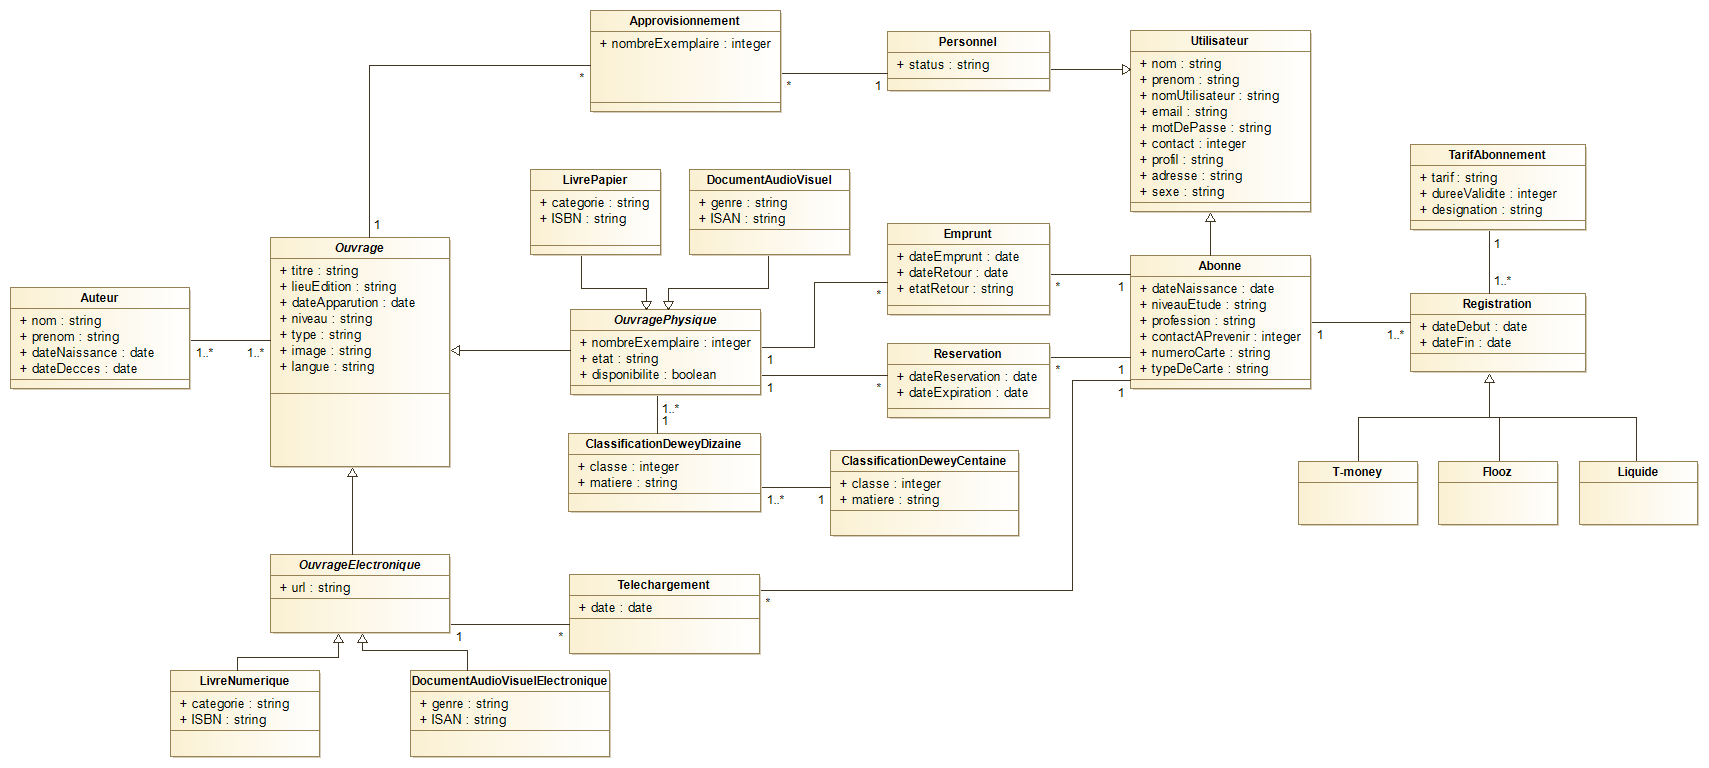
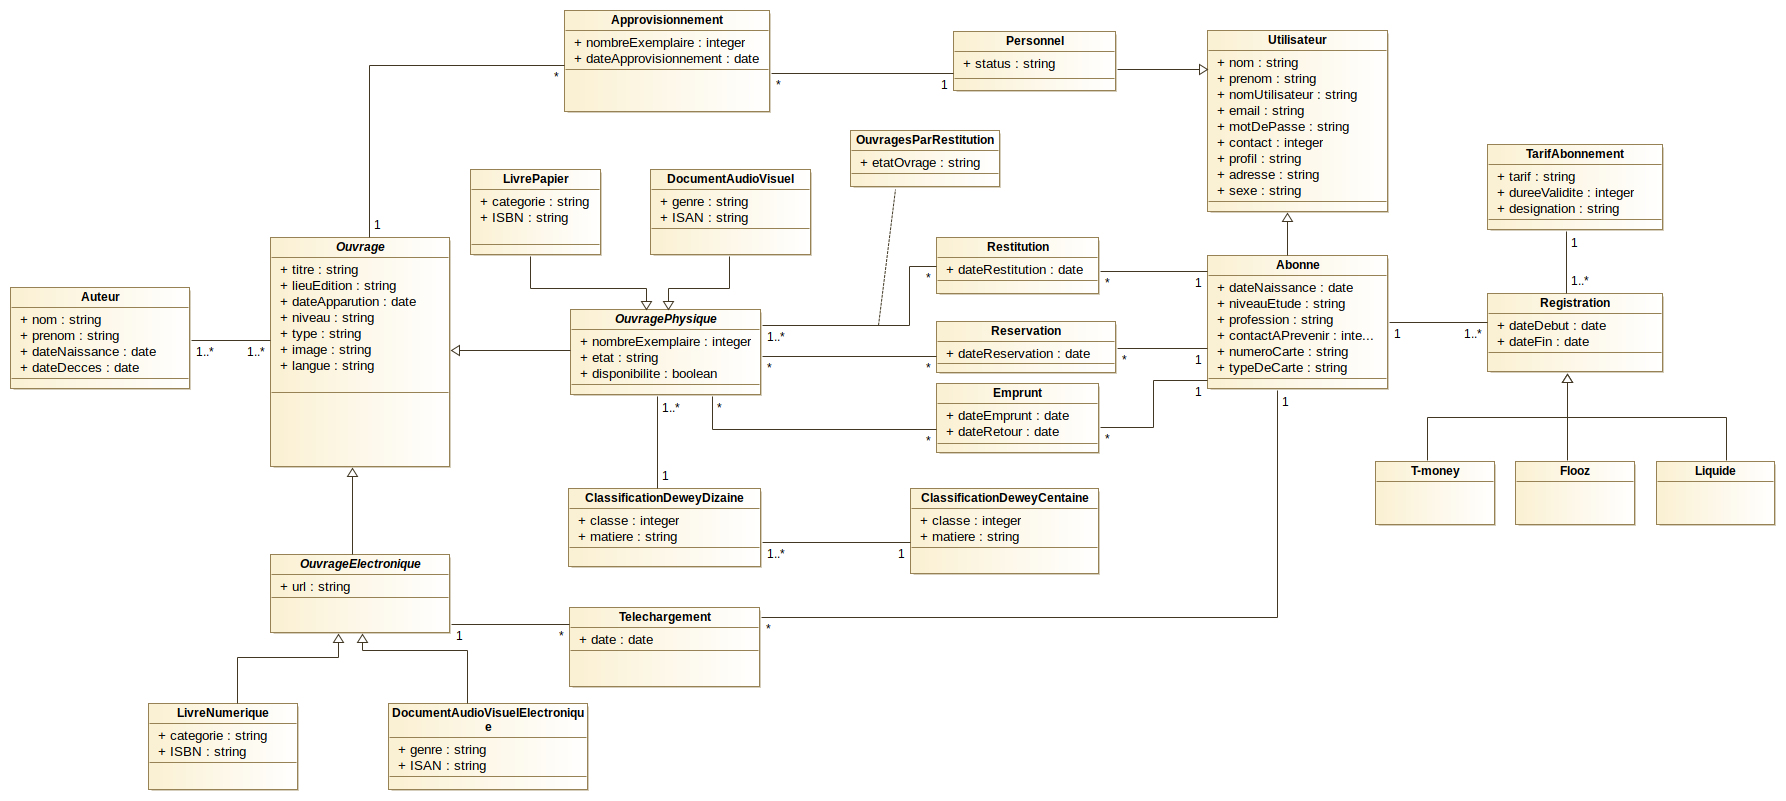
Models

diff --git a/source/mediatheque/routes/web.php b/source/mediatheque/routes/web.php
@@ -31,7 +31,7 @@ Route::get('formulaire_edition_des_abonnes', 'App\Http\Controllers\AbonneControl
 Route::put('mise_a_jour_des_abonnes', 'App\Http\Controllers\AbonneController@update')->name('updateAbonne');
 Route::delete('suppression_des_abonnes', 'App\Http\Controllers\AbonneController@destroy')->name('destroyAbonne');
 Route::get('formulaire_Abonne', 'App\Http\Controllers\AbonneController@create')->name('createAbonne');
-Route::post('enregistrement_des_abonnes', 'App\Http\Controllers\AbonneController@store')->name('storeAbonne');
+Route::post('enregistrement_abonne', 'App\Http\Controllers\AbonneController@store')->name('storeAbonne');
 
 // Path: Personnel routes/web.php
 Route::get('liste_des_personnels', 'App\Http\Controllers\PersonnelController@index')->name('listePersonnels');
@@ -40,7 +40,7 @@ Route::get('formulaire_edition_des_personnels', 'App\Http\Controllers\PersonnelC
 Route::put('mise_a_jour_des_personnels', 'App\Http\Controllers\PersonnelController@update')->name('updatePersonnel');
 Route::delete('suppression_des_personnels', 'App\Http\Controllers\PersonnelController@destroy')->name('destroyPersonnel');
 Route::get('formulaire_Personnel', 'App\Http\Controllers\PersonnelController@create')->name('createPersonnel');
-Route::post('enregistrement_des_personnels', 'App\Http\Controllers\PersonnelController@store')->name('storePersonnel');
+Route::post('enregistrement_personnel', 'App\Http\Controllers\PersonnelController@store')->name('storePersonnel');
 
 // Path: Emprunt routes/web.php
 Route::get('liste_des_emprunts', 'App\Http\Controllers\EmpruntController@index')->name('listeEmprunts');
@@ -49,7 +49,7 @@ Route::get('formulaire_edition_des_emprunts', 'App\Http\Controllers\EmpruntContr
 Route::put('mise_a_jour_des_emprunts', 'App\Http\Controllers\EmpruntController@update')->name('updateEmprunt');
 Route::delete('suppression_des_emprunts', 'App\Http\Controllers\EmpruntController@destroy')->name('destroyEmprunt');
 Route::get('formulaire_Emprunt', 'App\Http\Controllers\EmpruntController@create')->name('createEmprunt');
-Route::post('enregistrement_des_emprunts', 'App\Http\Controllers\EmpruntController@store')->name('storeEmprunt');
+Route::post('enregistrement_emprunt', 'App\Http\Controllers\EmpruntController@store')->name('storeEmprunt');
 
 // Path: Reservation routes/web.php
 Route::get('liste_des_reservations', 'App\Http\Controllers\ReservationController@index')->name('listeReservations');
@@ -58,7 +58,7 @@ Route::get('formulaire_edition_des_reservations', 'App\Http\Controllers\Reservat
 Route::put('mise_a_jour_des_reservations', 'App\Http\Controllers\ReservationController@update')->name('updateReservation');
 Route::delete('suppression_des_reservations', 'App\Http\Controllers\ReservationController@destroy')->name('destroyReservation');
 Route::get('formulaire_Reservation', 'App\Http\Controllers\ReservationController@create')->name('createReservation');
-Route::post('enregistrement_des_reservations', 'App\Http\Controllers\ReservationController@store')->name('storeReservation');
+Route::post('enregistrement_reservation', 'App\Http\Controllers\ReservationController@store')->name('storeReservation');
 
 // Path: ClassificationDeweyCentaine routes/web.php
 Route::get('liste_des_classification_dewey_centaines', 'App\Http\Controllers\ClassificationDeweyCentaineController@index')->name('listeClassificationDeweyCentaines');
@@ -67,7 +67,7 @@ Route::get('formulaire_edition_des_classification_dewey_centaines', 'App\Http\Co
 Route::put('mise_a_jour_des_classification_dewey_centaines', 'App\Http\Controllers\ClassificationDeweyCentaineController@update')->name('updateClassificationDeweyCentaine');
 Route::delete('suppression_des_classification_dewey_centaines', 'App\Http\Controllers\ClassificationDeweyCentaineController@destroy')->name('destroyClassificationDeweyCentaine');
 Route::get('formulaire_ClassificationDeweyCentaine', 'App\Http\Controllers\ClassificationDeweyCentaineController@create')->name('createClassificationDeweyCentaine');
-Route::post('enregistrement_des_classification_dewey_centaines', 'App\Http\Controllers\ClassificationDeweyCentaineController@store')->name('storeClassificationDeweyCentaine');
+Route::post('enregistrement_classification_dewey_centaine', 'App\Http\Controllers\ClassificationDeweyCentaineController@store')->name('storeClassificationDeweyCentaine');
 
 // Path: TarifAbonnement routes/web.php
 Route::get('liste_des_tarif_abonnements', 'App\Http\Controllers\TarifAbonnementController@index')->name('listeTarifAbonnements');
@@ -76,7 +76,7 @@ Route::get('formulaire_edition_des_tarif_abonnements', 'App\Http\Controllers\Tar
 Route::put('mise_a_jour_des_tarif_abonnements', 'App\Http\Controllers\TarifAbonnementController@update')->name('updateTarifAbonnement');
 Route::delete('suppression_des_tarif_abonnements', 'App\Http\Controllers\TarifAbonnementController@destroy')->name('destroyTarifAbonnement');
 Route::get('formulaire_TarifAbonnement', 'App\Http\Controllers\TarifAbonnementController@create')->name('createTarifAbonnement');
-Route::post('enregistrement_des_tarif_abonnements', 'App\Http\Controllers\TarifAbonnementController@store')->name('storeTarifAbonnement');
+Route::post('enregistrement_tarif_abonnement', 'App\Http\Controllers\TarifAbonnementController@store')->name('storeTarifAbonnement');
 
 // Path: Registration routes/web.php
 Route::get('liste_des_registrations', 'App\Http\Controllers\RegistrationController@index')->name('listeRegistrations');
@@ -85,7 +85,7 @@ Route::get('formulaire_edition_des_registrations', 'App\Http\Controllers\Registr
 Route::put('mise_a_jour_des_registrations', 'App\Http\Controllers\RegistrationController@update')->name('updateRegistration');
 Route::delete('suppression_des_registrations', 'App\Http\Controllers\RegistrationController@destroy')->name('destroyRegistration');
 Route::get('formulaire_Registration', 'App\Http\Controllers\RegistrationController@create')->name('createRegistration');
-Route::post('enregistrement_des_registrations', 'App\Http\Controllers\RegistrationController@store')->name('storeRegistration');
+Route::post('enregistrement_registration', 'App\Http\Controllers\RegistrationController@store')->name('storeRegistration');
 
 // Path: Tmoney routes/web.php
 Route::get('liste_des_tmoney', 'App\Http\Controllers\TmoneyController@index')->name('listeTmoney');
@@ -94,7 +94,7 @@ Route::get('formulaire_edition_des_tmoney', 'App\Http\Controllers\TmoneyControll
 Route::put('mise_a_jour_des_tmoney', 'App\Http\Controllers\TmoneyController@update')->name('updateTmoney');
 Route::delete('suppression_des_tmoney', 'App\Http\Controllers\TmoneyController@destroy')->name('destroyTmoney');
 Route::get('formulaire_Tmoney', 'App\Http\Controllers\TmoneyController@create')->name('createTmoney');
-Route::post('enregistrement_des_tmoney', 'App\Http\Controllers\TmoneyController@store')->name('storeTmoney');
+Route::post('enregistrement_tmoney', 'App\Http\Controllers\TmoneyController@store')->name('storeTmoney');
 
 // Path: Flooz routes/web.php
 Route::get('liste_des_flooz', 'App\Http\Controllers\FloozController@index')->name('listeFlooz');
@@ -103,7 +103,7 @@ Route::get('formulaire_edition_des_flooz', 'App\Http\Controllers\FloozController
 Route::put('mise_a_jour_des_flooz', 'App\Http\Controllers\FloozController@update')->name('updateFlooz');
 Route::delete('suppression_des_flooz', 'App\Http\Controllers\FloozController@destroy')->name('destroyFlooz');
 Route::get('formulaire_Flooz', 'App\Http\Controllers\FloozController@create')->name('createFlooz');
-Route::post('enregistrement_des_flooz', 'App\Http\Controllers\FloozController@store')->name('storeFlooz');
+Route::post('enregistrement_flooz', 'App\Http\Controllers\FloozController@store')->name('storeFlooz');
 
 // Path: liquide routes/web.php
 Route::get('liste_des_liquides', 'App\Http\Controllers\LiquideController@index')->name('listeLiquides');
@@ -112,7 +112,7 @@ Route::get('formulaire_edition_des_liquides', 'App\Http\Controllers\LiquideContr
 Route::put('mise_a_jour_des_liquides', 'App\Http\Controllers\LiquideController@update')->name('updateLiquide');
 Route::delete('suppression_des_liquides', 'App\Http\Controllers\LiquideController@destroy')->name('destroyLiquide');
 Route::get('formulaire_Liquide', 'App\Http\Controllers\LiquideController@create')->name('createLiquide');
-Route::post('enregistrement_des_liquides', 'App\Http\Controllers\LiquideController@store')->name('storeLiquide');
+Route::post('enregistrement_liquide', 'App\Http\Controllers\LiquideController@store')->name('storeLiquide');
 
 
 Route::get('liste_livres_numerique', [LivreNumeriqueController::class, 'index'])->name('listeLivresNumerique');

diff --git a/source/mediatheque/database/migrations/2022_08_16_115852_create_reservations_table.php b/source/mediatheque/database/migrations/2022_08_16_115852_create_reservations_table.php
@@ -16,7 +16,6 @@ class CreateReservationsTable extends Migration
         Schema::create('reservations', function (Blueprint $table) {
             $table->bigIncrements('id_reservation');
             $table->date('date_reservation')->default('now()');
-            $table->date('date_expiration');
             $table->bigInteger('id_abonne');
             $table->bigInteger('id_ouvrage_physique');
             $table->foreign('id_abonne')->references('id_abonne')->on('abonnes');

diff --git a/source/mediatheque/database/migrations/2022_08_16_115309_create_emprunts_table.php b/source/mediatheque/database/migrations/2022_08_16_115309_create_emprunts_table.php
@@ -17,7 +17,6 @@ class CreateEmpruntsTable extends Migration
             $table->bigIncrements('id_emprunt');
             $table->date('date_emprunt')->default('now()');
             $table->date('date_retour');
-            $table->string('etat_retour');
             $table->bigInteger('id_abonne');
             $table->bigInteger('id_ouvrage_physique');
             $table->foreign('id_abonne')->references('id_abonne')->on('abonnes');

diff --git a/rapports/planning/etude_previsionnel.tex b/rapports/planning/etude_previsionnel.tex
@@ -15,7 +15,6 @@
 
 \section{Planning}
 
-image
 
 \subsection{Résumé récapitulatif du planning:}
 \begin{flushleft}
